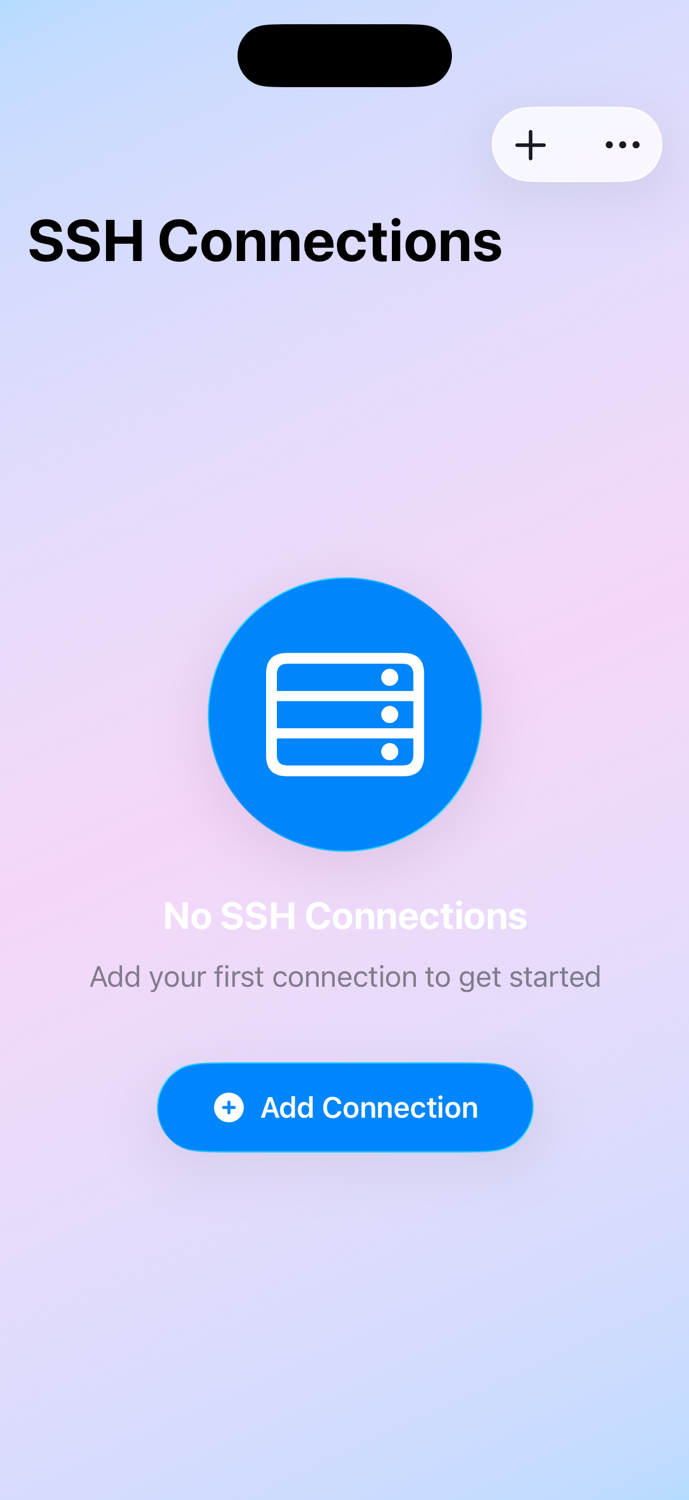
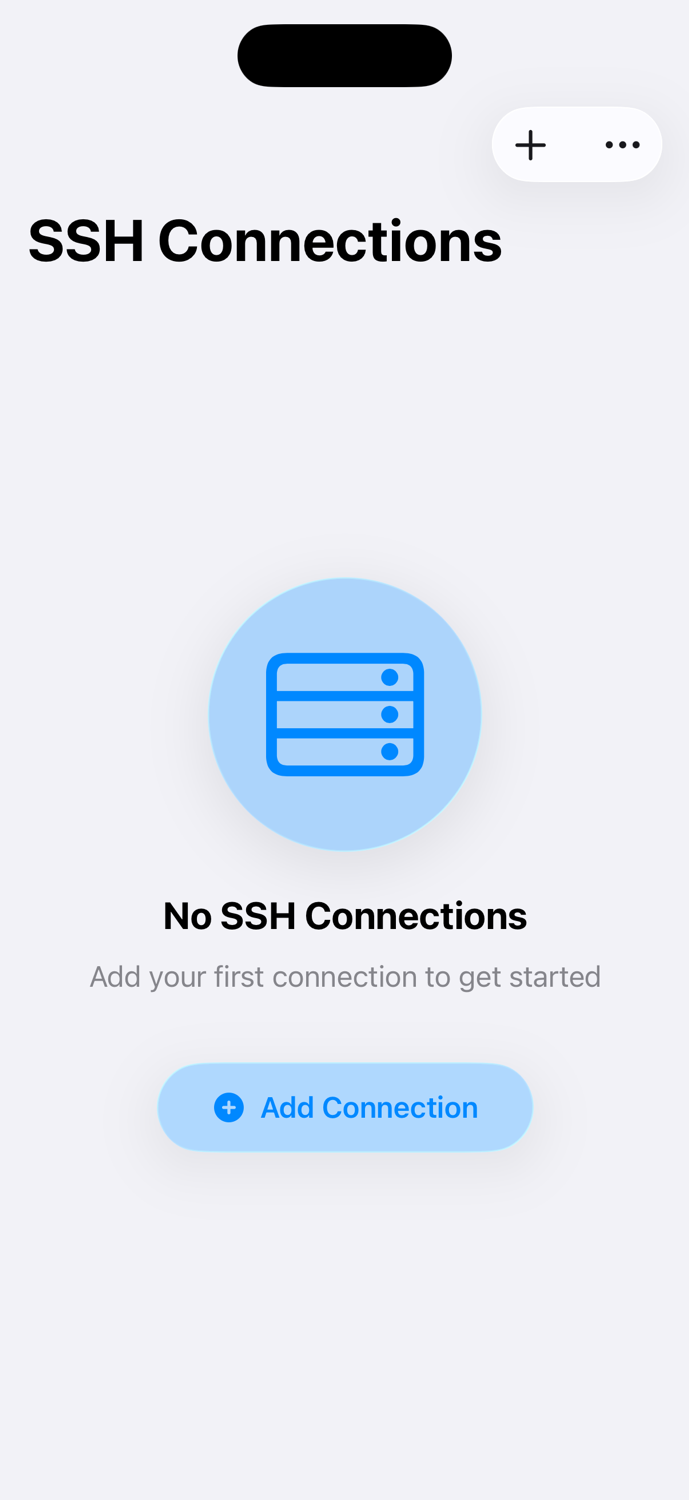
Update README with dark mode, new screenshots, and documentation index
- Add Dark Mode Support feature section to README
- Add edit connections mention to SSH Connection Management
- Replace screenshots with updated Liquid Glass UI renders
- Add dark mode screenshot variants (connection list, settings)
- Add documentation index table linking to all .md files in simplessh/
- Update Views descriptions for edit support and appearance settings
- Add dark mode preview variants to ContentView and SettingsView

diff --git a/simplessh/ContentView.swift b/simplessh/ContentView.swift
@@ -350,4 +350,30 @@ struct ConnectionRowView: View {
     return ContentView()
         .modelContainer(container)
 }
+#Preview("Dark Mode") {
+    let container = try! ModelContainer(
+        for: SSHConnection.self,
+        configurations: ModelConfiguration(isStoredInMemoryOnly: true)
+    )
+    
+    let connection1 = SSHConnection(
+        name: "Production Server",
+        serverIP: "192.168.1.100",
+        username: "admin"
+    )
+    connection1.lastUsedAt = Date().addingTimeInterval(-3600)
+    
+    let connection2 = SSHConnection(
+        name: "Development Server",
+        serverIP: "dev.example.com",
+        username: "developer"
+    )
+    
+    container.mainContext.insert(connection1)
+    container.mainContext.insert(connection2)
+    
+    return ContentView()
+        .modelContainer(container)
+        .preferredColorScheme(.dark)
+}
 

diff --git a/simplessh/SettingsView.swift b/simplessh/SettingsView.swift
@@ -225,3 +225,7 @@ struct SettingsView: View {
 #Preview {
     SettingsView()
 }
+#Preview("Dark Mode") {
+    SettingsView()
+        .preferredColorScheme(.dark)
+}

diff --git a/README.md b/README.md
@@ -16,6 +16,7 @@ Simple SSH is an iPhone app that provides a full-featured SSH terminal — conne
 
 ### SSH Connection Management
 - Save multiple SSH server configurations
+- Edit existing connections (via toolbar edit mode or long-press context menu)
 - Secure key storage in iOS Keychain (not in SwiftData)
 - Biometric authentication (Face ID / Touch ID) for key access
 - Connection details: hostname, username, SSH key (Ed25519 or RSA, OpenSSH or PEM format), port
@@ -31,6 +32,13 @@ Simple SSH is an iPhone app that provides a full-featured SSH terminal — conne
 - Typing `exit` closes the SSH session and returns to the connection list
 - Connection status indicators
 
+### Dark Mode Support
+- Three appearance modes: **System** (follows device setting), **Light**, and **Dark**
+- When set to **System**, the app automatically adapts to your device's appearance setting
+- Adaptive color palette: clean, subtle UI in light mode; vibrant gradient and glass effects in dark mode
+- Configurable in Settings — your preference is saved across app launches
+- Terminal view is independent — it always uses its own theme colors
+
 ### Customizable Terminal Themes
 - 7 built-in themes, each bundling font, size, and colors: Classic Green, Amber, Cyan, White, Solarized, Dracula, Oh My Zsh
 - Oh My Zsh theme optimized for rendering Oh My Zsh shell configurations
@@ -40,20 +48,21 @@ Simple SSH is an iPhone app that provides a full-featured SSH terminal — conne
 
 ## Screenshots
 
-### Connection List (Empty State)
-![Connection List - Empty](simplessh/screenshots/connection_list_empty.png)
+### Light Mode
 
-### Connection List (With Connections)
-![Connection List - Populated](simplessh/screenshots/connection_list_populated.png)
+| Connection List (Empty) | Connection List | Add Connection |
+|:-:|:-:|:-:|
+| ![Empty](simplessh/screenshots/connection_list_empty.png) | ![Populated](simplessh/screenshots/connection_list_populated.png) | ![Add](simplessh/screenshots/add_connection.png) |
 
-### Add Connection
-![Add Connection](simplessh/screenshots/add_connection.png)
+| Settings | SSH Terminal |
+|:-:|:-:|
+| ![Settings](simplessh/screenshots/settings_view.png) | ![Terminal](simplessh/screenshots/terminal_view.png) |
 
-### SSH Terminal
-![SSH Terminal](simplessh/screenshots/terminal_view.png)
+### Dark Mode
 
-### Settings
-![Settings](simplessh/screenshots/settings_view.png)
+| Connection List | Settings |
+|:-:|:-:|
+| ![Connections Dark](simplessh/screenshots/connection_list_dark.png) | ![Settings Dark](simplessh/screenshots/settings_view_dark.png) |
 
 ## Architecture
 
@@ -61,10 +70,10 @@ Simple SSH is an iPhone app that provides a full-featured SSH terminal — conne
 - **SSHConnection**: SwiftData model storing connection configuration (metadata only — keys in Keychain)
 
 ### Views
-- **ContentView**: Main list showing all saved connections with swipe-to-delete
-- **AddConnectionView**: Form for creating new connections with validation and biometric toggle
+- **ContentView**: Main list showing all saved connections with swipe-to-delete, edit mode, and context menus
+- **AddConnectionView**: Form for creating and editing connections with validation and biometric toggle
 - **SSHTerminalView**: Production terminal with real SSH via Citadel
-- **SettingsView**: Terminal appearance customization with live preview
+- **SettingsView**: Appearance mode (System/Light/Dark) and terminal theme customization with live preview
 
 ### Managers
 - **SSHManager**: SSH connection lifecycle, PTY shell sessions, command execution — all async/await
@@ -143,6 +152,19 @@ The key format is auto-detected from the file content. **Encrypted (passphrase-p
 - [SSH Authentication Protocol — RFC 4252](https://datatracker.ietf.org/doc/html/rfc4252)
 - [GitHub: Connecting with SSH](https://docs.github.com/en/authentication/connecting-to-github-with-ssh) — practical guide to SSH key setup
 - [DigitalOcean: How to Set Up SSH Keys](https://www.digitalocean.com/community/tutorials/how-to-set-up-ssh-keys-on-ubuntu-20-04) — step-by-step tutorial
+
+## Documentation
+
+Detailed documentation is available inside the [`simplessh/`](simplessh/) directory:
+
+| Document | Description |
+|---|---|
+| [Quick Start Guide](simplessh/QUICK_START.md) | 5-minute setup guide — get the app running on your device step by step |
+| [App Flow](simplessh/APP_FLOW.md) | Application flow diagrams — how screens connect and data moves through the app |
+| [File Structure](simplessh/FILE_STRUCTURE.md) | Complete file listing with architecture layers and file descriptions |
+| [Implementation Summary](simplessh/IMPLEMENTATION_SUMMARY.md) | Feature summary, architecture overview, threading model, and dependencies |
+| [Production Implementation Guide](simplessh/PRODUCTION_IMPLEMENTATION_GUIDE.md) | Detailed technical guide — SSH key parsing, Keychain security, error handling, and troubleshooting |
+| [Project README](simplessh/README.md) | Inner project overview with feature list and requirements |
 
 ## Important Notes
 
